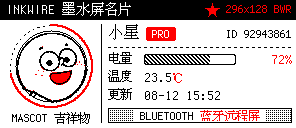
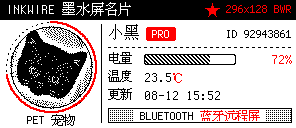
Swap the card portrait for a photograph
The previous artwork was line drawing, which this panel handles almost
for free. A photograph of a dark subject is the opposite case and took
several attempts to get anywhere.

Dithered straight, the cat's head thresholds to one flat black mass and
its eyes, mid-tone against dark fur, vanish into it. Nine combinations
of size and threshold were tried, up to a 124px portrait, and none of
them showed an eye: the subject simply has too little internal contrast
for one bit. Lifting local contrast first with an unsharp mask brings
back the eyes, the ear edges and the whiskers, so the example crops,
sharpens and only then hands the image to the encoder.

The room behind the cat is also full of warm wood and beige, which
reaches the red plane and speckles red across a subject that has none.
The portrait switches red off, which today means setting RedThreshold
to 255 and relying on nothing being brighter than that; ImageOptions
still has no honest way to say it.

Line art needs neither pass and wants thresholding rather than error
diffusion, so the two cases now sit side by side in the notes.

Changed region(s): [[0.0, 0.1562, 0.3345, 1.0], [0.4257, 0.1875, 0.4865, 0.3125]]

diff --git a/examples/card_showcase/main.go b/examples/card_showcase/main.go
@@ -6,6 +6,7 @@ import (
 	"flag"
 	"fmt"
 	"image"
+	"image/color"
 	"image/png"
 	"math"
 	"os"
@@ -13,8 +14,8 @@ import (
 	"github.com/xwvike/inkwire/internal/display"
 )
 
-//go:embed mascot.png
-var mascotPNG []byte
+//go:embed portrait.png
+var portraitPNG []byte
 
 func main() {
 	pngPath := flag.String("png", "card_showcase.png", "PNG preview output path")
@@ -52,15 +53,15 @@ func renderCardShowcase() (*display.Frame, error) {
 	if err != nil {
 		return nil, err
 	}
-	mascot, err := png.Decode(bytes.NewReader(mascotPNG))
+	photo, err := png.Decode(bytes.NewReader(portraitPNG))
 	if err != nil {
-		return nil, fmt.Errorf("decode mascot: %w", err)
+		return nil, fmt.Errorf("decode portrait: %w", err)
 	}
 
 	// Recorded first, then replayed, so the card exercises the display list on
 	// the way to the panel exactly as a real screen would.
 	list := &display.DisplayList{}
-	card := cardShowcase{list: list, fonts: fonts, mascot: mascot}
+	card := cardShowcase{list: list, fonts: fonts, photo: photo}
 	if err := card.draw(); err != nil {
 		return nil, err
 	}
@@ -71,9 +72,9 @@ func renderCardShowcase() (*display.Frame, error) {
 }
 
 type cardShowcase struct {
-	list   *display.DisplayList
-	fonts  *display.FontRegistry
-	mascot image.Image
+	list  *display.DisplayList
+	fonts *display.FontRegistry
+	photo image.Image
 }
 
 var (
@@ -101,7 +102,7 @@ func (c cardShowcase) header() error {
 	); err != nil {
 		return err
 	}
-	// A star lifted off the mascot's shirt, drawn as a filled polygon.
+	// A filled polygon, kept as the one purely decorative mark on the card.
 	c.list.FillPolygon(starPoints(image.Pt(212, 10), 7, 3), display.InkRed)
 	return c.text(image.Rect(222, 3, 292, 18), 14, display.AlignEnd,
 		run("296x128 BWR", "monaco", 10, display.InkRed),
@@ -113,13 +114,16 @@ func (c cardShowcase) header() error {
 // The ring around it doubles as the battery dial, drawn as a partial arc, which
 // is an open curve and so stays centred on its own path.
 func (c cardShowcase) portrait(fraction float64) error {
-	center, radius := image.Pt(51, 66), 36
+	center, radius := image.Pt(51, 67), 41
 	c.list.Save()
 	c.list.ClipPath(circlePath(center, radius))
-	if err := c.list.DrawImage(cropToPortrait(c.mascot), circleRect(center, radius+1), display.ImageOptions{
+	if err := c.list.DrawImage(preparePortrait(c.photo), circleRect(center, radius+1), display.ImageOptions{
 		Fit:      display.FitCover,
 		Sampling: display.SampleBilinear,
-		Dither:   display.DitherThreshold,
+		Dither:   display.DitherFloydSteinberg,
+		// The room behind the subject is warm enough to reach the red plane,
+		// which would scatter red through a photograph that has none in it.
+		RedThreshold: 255,
 	}); err != nil {
 		c.list.Restore()
 		return err
@@ -127,20 +131,27 @@ func (c cardShowcase) portrait(fraction float64) error {
 	c.list.Restore()
 	c.list.StrokeCircle(center, radius, black1)
 
-	dial := circleRect(center, radius+5)
+	dial := circleRect(center, radius+4)
 	c.list.DrawArc(dial, 0, 360, display.StrokeStyle{Ink: display.InkBlack, Width: 1, Dash: []int{2, 4}})
 	c.list.DrawArc(dial, -90, 360*fraction, display.StrokeStyle{Ink: display.InkRed, Width: 2})
 
-	return c.text(image.Rect(6, 112, 96, 126), 13, display.AlignCenter,
-		run("MASCOT ", "monaco", 10, display.InkBlack),
-		run("吉祥物", "hzk", 12, display.InkBlack),
+	return c.text(image.Rect(4, 114, 98, 127), 13, display.AlignCenter,
+		run("PET ", "monaco", 10, display.InkBlack),
+		run("宠物", "hzk", 12, display.InkBlack),
 	)
 }
 
-// The source is a full figure; the card wants the head and raised arms, so it
-// is cropped before it is scaled rather than shrinking the whole body into a
-// circle where nothing would be legible.
-func cropToPortrait(source image.Image) image.Image {
+// preparePortrait crops to the head and then lifts local contrast. A
+// photograph of a dark subject is the hard case for this panel: at portrait
+// size the head thresholds to one flat black mass and the eyes, which are
+// mid-tone against dark fur, disappear into it. Boosting local contrast first
+// pulls them back out. Line art needs none of this, which is why the encoder
+// alone was enough for the previous artwork.
+func preparePortrait(source image.Image) image.Image {
+	return unsharpMask(cropToHead(source), 10, 2.4)
+}
+
+func cropToHead(source image.Image) image.Image {
 	cropper, ok := source.(interface {
 		SubImage(image.Rectangle) image.Image
 	})
@@ -149,19 +160,78 @@ func cropToPortrait(source image.Image) image.Image {
 	}
 	bounds := source.Bounds()
 	crop := image.Rect(
-		bounds.Min.X+bounds.Dx()*24/100,
-		bounds.Min.Y+bounds.Dy()*2/100,
-		bounds.Min.X+bounds.Dx()*74/100,
-		bounds.Min.Y+bounds.Dy()*52/100,
+		bounds.Min.X+bounds.Dx()*31/100,
+		bounds.Min.Y+bounds.Dy()*6/100,
+		bounds.Min.X+bounds.Dx()*81/100,
+		bounds.Min.Y+bounds.Dy()*56/100,
 	)
 	return cropper.SubImage(crop)
+}
+
+// unsharpMask returns src + amount*(src - blur(src)) in grayscale. Flat areas
+// keep their tone while edges and texture pull apart.
+func unsharpMask(source image.Image, radius int, amount float64) image.Image {
+	bounds := source.Bounds()
+	width, height := bounds.Dx(), bounds.Dy()
+	gray := make([]float64, width*height)
+	for y := range height {
+		for x := range width {
+			c := color.NRGBAModel.Convert(source.At(bounds.Min.X+x, bounds.Min.Y+y)).(color.NRGBA)
+			gray[y*width+x] = 0.2126*float64(c.R) + 0.7152*float64(c.G) + 0.0722*float64(c.B)
+		}
+	}
+	blurred := boxBlur(boxBlurRows(gray, width, height, radius), width, height, radius)
+
+	out := image.NewNRGBA(image.Rect(0, 0, width, height))
+	for y := range height {
+		for x := range width {
+			value := gray[y*width+x] + amount*(gray[y*width+x]-blurred[y*width+x])
+			level := uint8(min(255, max(0, int(value))))
+			out.SetNRGBA(x, y, color.NRGBA{R: level, G: level, B: level, A: 0xff})
+		}
+	}
+	return out
+}
+
+func boxBlurRows(values []float64, width, height, radius int) []float64 {
+	out := make([]float64, len(values))
+	for y := range height {
+		for x := range width {
+			sum, count := 0.0, 0
+			for d := -radius; d <= radius; d++ {
+				if x+d >= 0 && x+d < width {
+					sum += values[y*width+x+d]
+					count++
+				}
+			}
+			out[y*width+x] = sum / float64(count)
+		}
+	}
+	return out
+}
+
+func boxBlur(values []float64, width, height, radius int) []float64 {
+	out := make([]float64, len(values))
+	for y := range height {
+		for x := range width {
+			sum, count := 0.0, 0
+			for d := -radius; d <= radius; d++ {
+				if y+d >= 0 && y+d < height {
+					sum += values[(y+d)*width+x]
+					count++
+				}
+			}
+			out[y*width+x] = sum / float64(count)
+		}
+	}
+	return out
 }
 
 func (c cardShowcase) details() error {
 	c.list.DrawLine(image.Pt(101, 24), image.Pt(101, 122), black1)
 
 	if err := c.text(image.Rect(108, 24, 200, 44), 20, display.AlignStart,
-		run("小星", "hzk", 16, display.InkBlack),
+		run("小黑", "hzk", 16, display.InkBlack),
 	); err != nil {
 		return err
 	}

diff --git a/examples/card_showcase/main_test.go b/examples/card_showcase/main_test.go
@@ -27,9 +27,10 @@ func TestRenderCardShowcase(t *testing.T) {
 	assertMatchesReferencePNG(t, "card_showcase.png", frame)
 }
 
-// The card is the only example that puts all three inks on the panel, and the
-// red comes out of the artwork rather than being drawn: the mascot's mouth is
-// warm enough to pass the red test while its outlines and face do not.
+// The card is the only example that puts all three inks on the panel. Red is
+// reserved for the interface here: the photograph is a room with warm wood and
+// beige in it, which would otherwise reach the red plane and scatter red
+// through a subject that has none, so the portrait disables red on purpose.
 func TestCardUsesAllThreeInks(t *testing.T) {
 	frame, err := renderCardShowcase()
 	if err != nil {
@@ -50,17 +51,17 @@ func TestCardUsesAllThreeInks(t *testing.T) {
 		}
 	}
 
-	// Red inside the portrait can only have come from the image itself.
+	// Well inside the portrait circle, away from the red dial that rings it.
 	portrait := 0
-	for y := 40; y < 95; y++ {
-		for x := 25; x < 80; x++ {
+	for y := 45; y < 90; y++ {
+		for x := 30; x < 74; x++ {
 			if ink, _ := frame.InkAt(x, y); ink == display.InkRed {
 				portrait++
 			}
 		}
 	}
-	if portrait == 0 {
-		t.Error("no red inside the portrait: the mouth should reach the red plane")
+	if portrait != 0 {
+		t.Errorf("%d red pixels inside the portrait: the photograph should not reach the red plane", portrait)
 	}
 }
 

diff --git a/PROTOCOL.md b/PROTOCOL.md
@@ -278,7 +278,8 @@ glyph = hzk12_bytes[offset : offset + 24]  # MSB first，逐行取位
 - 字体、文字、图元、图像、Canvas 状态和 DisplayList 都有 Go 单元测试；测试覆盖直接绘制与重放逐像素一致、可变输入快照、Clone 独立性、边界计算及状态下溢。运行时不调用 Python 或浏览器。任意角度旋转、缩放和通用布局树仍不属于这一层。
 - `examples/showcase/showcase.png` 是 296×128 图元与文字综合展示图；生成器现通过 DisplayList 重放产生画面，并逐字节比对已真机确认的基准 PNG。运行 `go run ./examples/showcase -png examples/showcase/showcase.png -payload /tmp/inkwire-showcase.bin` 可重新生成 PNG 和真机 payload。
 - `examples/card_showcase/card_showcase.png` 是把全部能力组合成一张实际界面的样例：头像用 `ClipPath` 裁成圆形（圆角来自裁剪而非事后覆盖），外圈用不足 360° 的圆弧当电量表盘（开放曲线，居中对齐），电量条的填充部分是裁进圆角里的斜纹图案，页脚是点阵图案中挖出白底文字，另有星形多边形、虚线分隔、中英混排多字号文字。整张图经 `DisplayList` 记录后重放。**这是三张图里唯一同时用满黑/白/红三色的**——红色不是画上去的，是源图里嘴部的红橙色命中了 4.2 节的红平面判定。
-  素材是线稿，因此图片用 `DitherThreshold` 而非误差扩散：Floyd–Steinberg 会把抗锯齿边缘的误差扩散到本该纯白的大面积皮肤上，实测糊成噪点，与 4.4 节的记录一致。素材来源与许可风险见 `examples/card_showcase/SOURCE`。**尚未上真机确认。**
+  **深色主体的照片是这块屏最难的一类素材，需要前处理。** 实测：一张黑猫照片直接 Floyd–Steinberg，72px / 96px / 124px 三种尺寸配 96 / 128 / 168 三档阈值，九种组合全部糊成一团黑，眼睛（暗底上的中灰调）始终不出现——问题不在阈值，主体本身内部对比就不够。先做非锐化掩蔽（局部对比增强，半径 10、强度 2.4）后眼睛、耳廓和胡须才浮出来。线稿则相反，不需要任何前处理，且必须用 `DitherThreshold`：Floyd–Steinberg 会把抗锯齿边缘的误差扩散到本该纯白的大片区域，实测糊成噪点，与 4.4 节记录一致。
+  另外照片背景里的暖色（木质、米色）会命中 4.2 节的红平面判定，在本无红色的主体上撒出红点，因此头像显式设 `RedThreshold: 255` 关闭红色，红色留给界面元素。目前关闭红色只能靠这个取巧写法，`ImageOptions` 缺一个直白的开关。素材来源与许可风险见 `examples/card_showcase/SOURCE`。**尚未上真机确认。**
 - `examples/paint_showcase/paint_showcase.png` 是路径裁剪、图案填充与虚线三项的专项展示图：左侧把一张程序生成的渐变照片经 Floyd–Steinberg 抖动裁进圆角卡片（圆角由 `ClipPath` 而非事后覆盖得到），右上是两块图案色板加一个由裁剪成形的点阵圆盘，右下是五条等长、同一 `[4,3]` 虚线、角度从 0° 到 90° 的线段——五条的实线段数一致即说明虚线按弧长计量。运行 `go run ./examples/paint_showcase -png examples/paint_showcase/paint_showcase.png -payload /tmp/inkwire-paint.bin` 重新生成。**尚未上真机确认。**
 - `examples/state_showcase/state_showcase.png` 是 Canvas 状态和 DisplayList 专项展示图：画面直接标出 `CLIP RECT`、`TRANSLATE`、`SAVE / RESTORE`、命令数与逻辑边界，生成过程还实际执行 `Clone`、`Reset` 和 `Replay`。2026-08-12 已通过 Go 驱动上传真机，9472 字节 payload 完成 40/40 分块并进入刷新。
 
